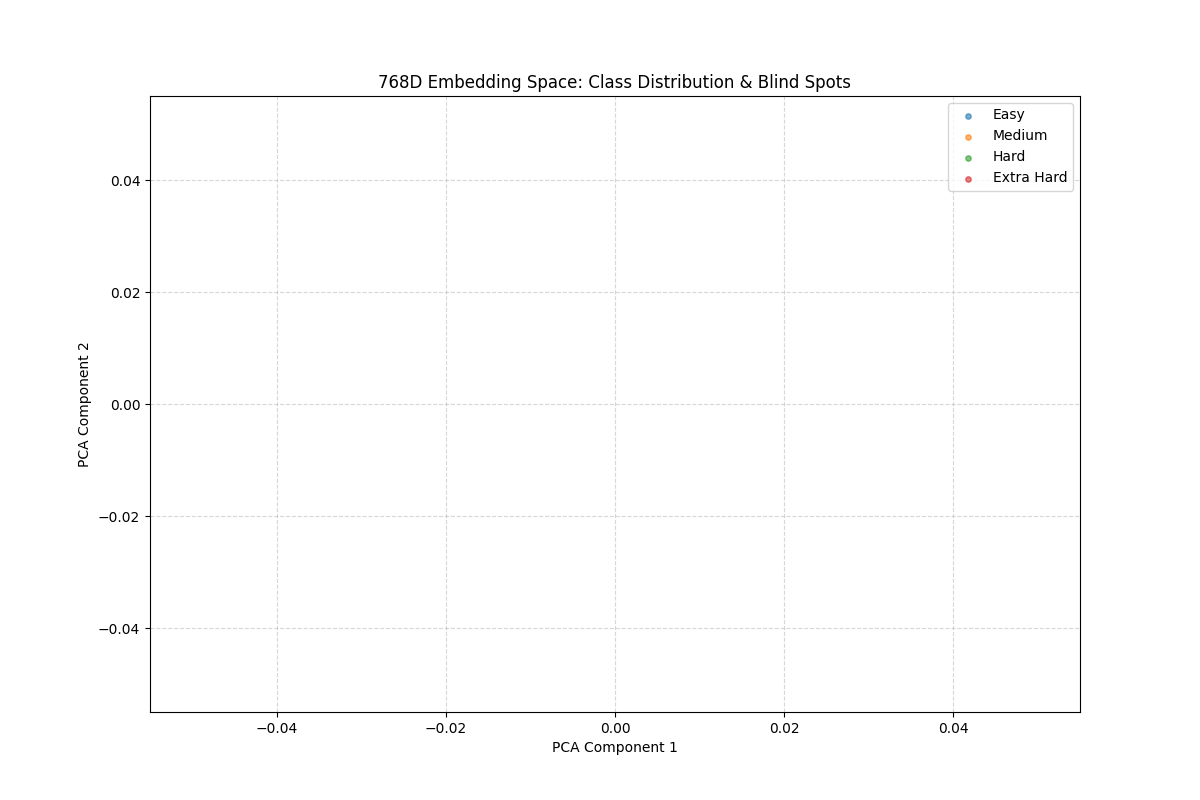
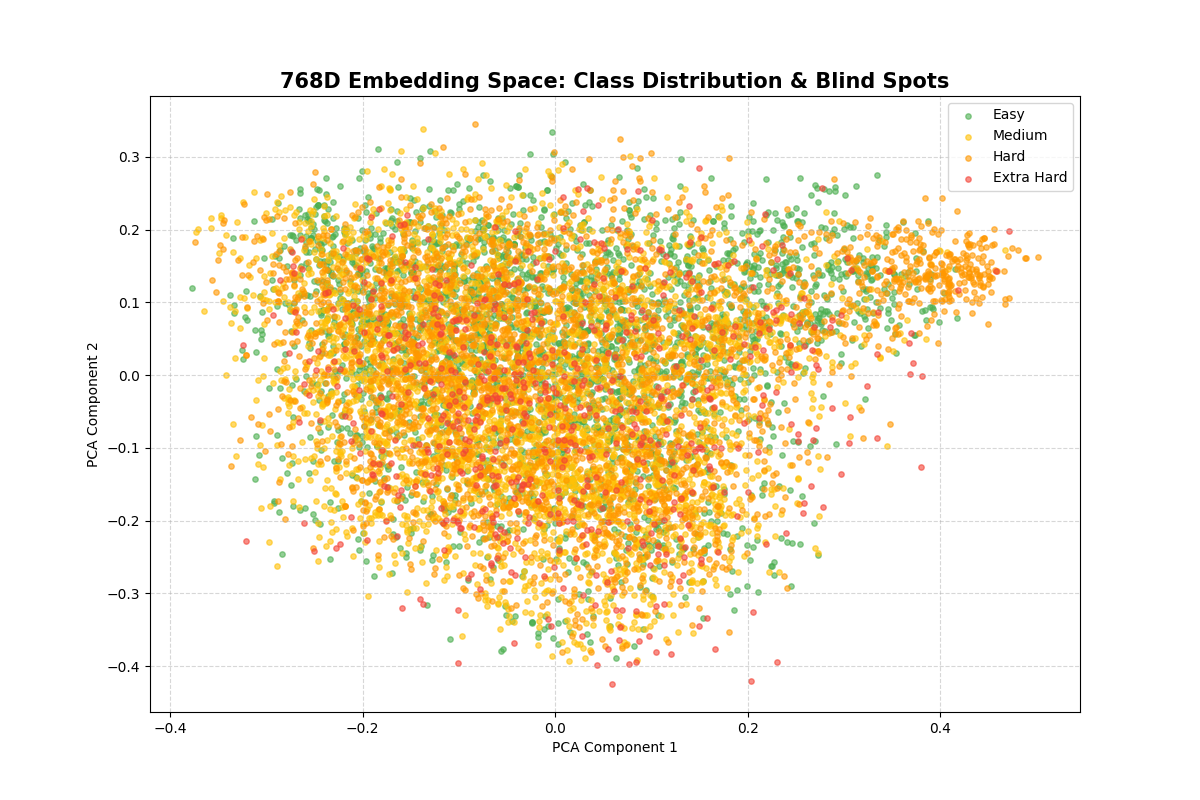
upd code to resolve blank blind spot map

diff --git a/produc_vers/map_blind_spots.py b/produc_vers/map_blind_spots.py
@@ -15,14 +15,22 @@ X_2d = pca.fit_transform(X)
 
 # 3. Create the Visualization
 plt.figure(figsize=(12, 8))
-colors = {'easy': '#4CAF50', 'medium': '#FFC107', 'hard': '#FF9800', 'extra': '#F44336'}
-labels = {'easy': 'Easy', 'medium': 'Medium', 'hard': 'Hard', 'extra': 'Extra Hard'}
+# Mapping dataset labels to our display configuration
+config = {
+    'Easy': {'color': '#4CAF50', 'label': 'Easy'},
+    'Medium': {'color': '#FFC107', 'label': 'Medium'},
+    'Hard': {'color': '#FF9800', 'label': 'Hard'},
+    'Extra Hard': {'color': '#F44336', 'label': 'Extra Hard'}
+}
 
-for diff in ['easy', 'medium', 'hard', 'extra']:
-    mask = (y == diff)
-    plt.scatter(X_2d[mask, 0], X_2d[mask, 1], label=labels[diff], alpha=0.6, s=15)
+for diff_label, settings in config.items():
+    mask = (y == diff_label)
+    plt.scatter(X_2d[mask, 0], X_2d[mask, 1], 
+                label=settings['label'], 
+                color=settings['color'],
+                alpha=0.6, s=15)
 
-plt.title('768D Embedding Space: Class Distribution & Blind Spots')
+plt.title('768D Embedding Space: Class Distribution & Blind Spots', fontsize=15, weight='bold')
 plt.xlabel('PCA Component 1')
 plt.ylabel('PCA Component 2')
 plt.legend()

diff --git a/scratch/inspect_embeddings.py b/scratch/inspect_embeddings.py
@@ -1,0 +1,9 @@
+import numpy as np
+data = np.load('produc_vers/spider_768_embeddings.npz')
+print(f"Keys: {list(data.keys())}")
+y = data['y']
+print(f"Labels shape: {y.shape}")
+unique_y = np.unique(y)
+print(f"Unique labels: {unique_y}")
+if len(y) > 0:
+    print(f"Sample label: {y[0]} (Type: {type(y[0])})")
